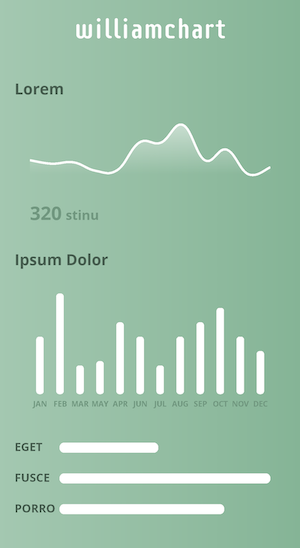
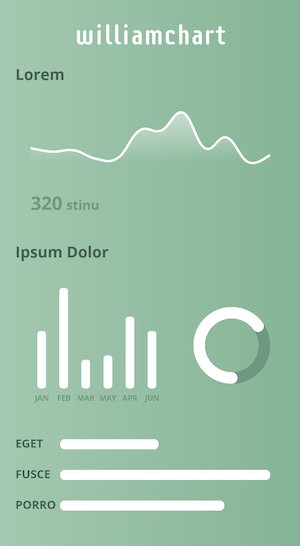
New release: 3.2.0

diff --git a/README.md b/README.md
@@ -13,7 +13,7 @@ Note: WilliamChart v3 has been completely re-written from scratch in Kotlin and 
 ### Gradle 
 
 ``` groovy
-implementation 'com.diogobernardino:williamchart:3.1.1'
+implementation 'com.diogobernardino:williamchart:3.2.0'
 ```
 
 If you find this library useful and decide to use it in your projects please drop me a line [@dfbernardino][1], I will be happy to know about it.
@@ -50,8 +50,21 @@ If you find this library useful and decide to use it in your projects please dro
   ...
   app:chart_spacing="dimension"
   app:chart_barsColor="color"
-  app:chart_barsBackgroundColor="color" ]
+  app:chart_barsBackgroundColor="color"
   app:chart_barsRadius="dimension" 
+/>
+```
+
+#### Donut Chart
+
+```xml
+<com.db.williamchart.view.DonutChartView
+  ...
+  app:chart_donutThickness="dimension"
+  app:chart_donutColor="color"
+  app:chart_donutBackgroundColor="color"
+  app:chart_donutRoundCorners="boolean"
+  app:chart_donutTotal="float"
 />
 ```
 
